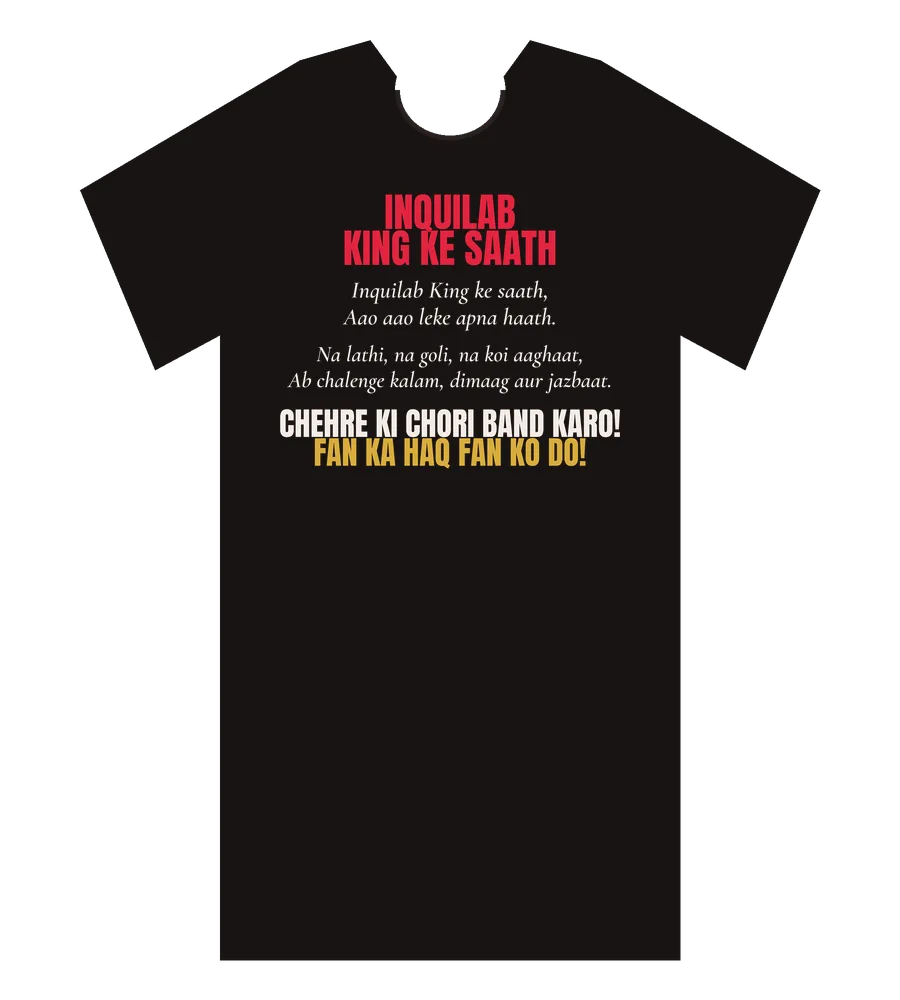
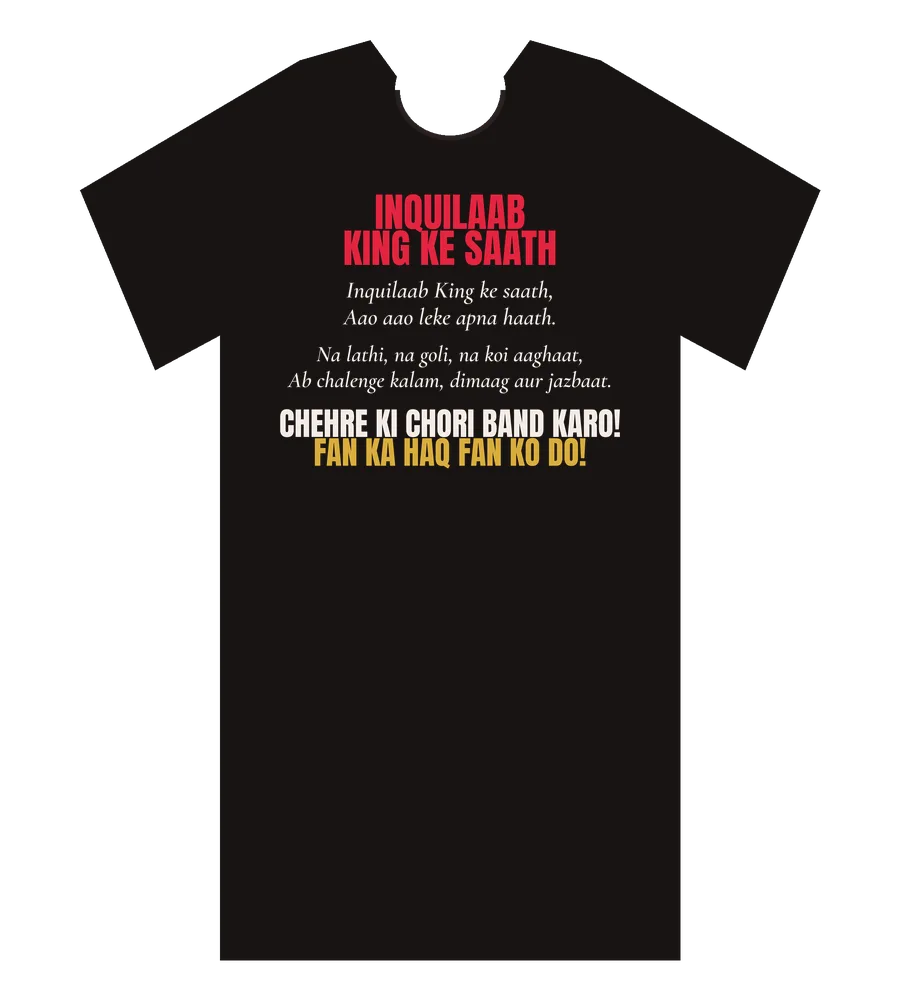
Rename the movement to INQUILAAB and the hashtag to #FreeMyFace across the site; re-render the three poem shirts
Claude-Session: https://claude.ai/code/session_01HggGaktCUHzzGKLAojHTWn

Changed region(s): [[0.4044, 0.186, 0.5911, 0.248], [0.3733, 0.279, 0.6222, 0.31]]

diff --git a/inquilab/index.html b/inquilab/index.html
@@ -3,12 +3,12 @@
 <head>
 <meta charset="utf-8">
 <meta name="viewport" content="width=device-width,initial-scale=1">
-<title>INQUILAB — The Fan Revolt Against Face Theft · #FreeTheFace</title>
-<meta name="description" content="INQUILAB: the fan revolt against face theft. Millions of fans are making Shah Rukh Khan with AI. No consent rules, no credit, no share. Inquilab King ke saath? #FreeTheFace">
+<title>INQUILAAB — The Fan Revolt Against Face Theft · #FreeMyFace</title>
+<meta name="description" content="INQUILAAB: the fan revolt against face theft. Millions of fans are making Shah Rukh Khan with AI. No consent rules, no credit, no share. Inquilaab King ke saath? #FreeMyFace">
 <meta name="theme-color" content="#0a0707">
 <link rel="canonical" href="https://agarmainkinghota.com/inquilab/">
-<meta property="og:title" content="INQUILAB — The Fan Revolt Against Face Theft">
-<meta property="og:description" content="Inquilab King ke saath? Aao aao leke apna haath. #FreeTheFace">
+<meta property="og:title" content="INQUILAAB — The Fan Revolt Against Face Theft">
+<meta property="og:description" content="Inquilaab King ke saath? Aao aao leke apna haath. #FreeMyFace">
 <meta property="og:image" content="https://agarmainkinghota.com/assets/lairs/cover.webp">
 <meta name="twitter:card" content="summary_large_image">
 <link rel="icon" type="image/png" href="../assets/home/favicon-64.png">
@@ -89,16 +89,16 @@
 <section class="iq-hero" aria-labelledby="h1">
   <div class="copy">
     <p class="eyebrow">08 · The fan revolt</p>
-    <h1 id="h1">INQUILAB</h1>
+    <h1 id="h1">INQUILAAB</h1>
     <p class="sub">The fan revolt against face theft</p>
-    <p class="couplet">Inquilab King ke saath?<br>Aao aao leke apna haath.</p>
-    <span class="tag">#FreeTheFace</span>
+    <p class="couplet">Inquilaab King ke saath?<br>Aao aao leke apna haath.</p>
+    <span class="tag">#FreeMyFace</span>
   </div>
   <div class="art"><img src="../assets/lairs/cover.webp" alt="A silhouetted King holding the King of Hearts over a red city" width="800" height="1200"></div>
 </section>
 
 <div class="ctr" aria-live="polite">
-  <div><small>Fans in the Inquilab</small><b id="c-joined">N/A</b><span>said "Haan!" on this page</span></div>
+  <div><small>Fans in the Inquilaab</small><b id="c-joined">N/A</b><span>said "Haan!" on this page</span></div>
   <div><small>Fan AI works of him</small><b id="c-works">N/A</b><span>found and linked by our daily scan</span></div>
   <div><small>Views on those works</small><b id="c-views">N/A</b><span id="c-viewsnote">where platforms publish views</span></div>
   <div><small>New this week</small><b id="c-week">N/A</b><span id="c-last">last scan N/A</span></div>
@@ -125,8 +125,8 @@
   <h2 id="p-h" class="sr" style="position:absolute;width:1px;height:1px;overflow:hidden;clip:rect(0 0 0 0)">The anthem</h2>
   <!-- POEM: replace the stanzas below with the final version -->
   <div class="poem" id="poem">
-    <h3>INQUILAB KING KE SAATH</h3>
-    <p class="st">Inquilab King ke saath,<br>Aao aao leke apna haath.</p>
+    <h3>INQUILAAB KING KE SAATH</h3>
+    <p class="st">Inquilaab King ke saath,<br>Aao aao leke apna haath.</p>
     <p class="st">Chehra Shah ka, kala humari,<br>AI se karli dacoiti saari.</p>
     <p class="st">Machine ne taan ke ki seena-zori,<br>Silicon Valley ki pakdi gayi chori.</p>
     <p class="st">Na niyam banaya, na haq samjhaya,<br>Humari kala ko apna bataya.</p>
@@ -142,8 +142,8 @@
     <div class="call">Kiska chehra?</div><div class="resp">King ka chehra!</div>
     <div class="call">Kiski kala?</div><div class="resp">Fans ki kala!</div>
     <div class="call">Kiska haq?</div><div class="resp">Hum sab ka haq!</div>
-    <div class="call">Inquilab?</div><div class="resp">King ke saath!</div>
-    <div class="call">Inquilab King ke saath,</div><div class="resp">Aao aao leke apna haath!</div>
+    <div class="call">Inquilaab?</div><div class="resp">King ke saath!</div>
+    <div class="call">Inquilaab King ke saath,</div><div class="resp">Aao aao leke apna haath!</div>
   </div>
   <div class="chant-ctl"><button class="btn btn-line" id="chantBtn" type="button">▶ Start the chant</button></div>
 </section>
@@ -152,12 +152,12 @@
   <p class="k">04 · Sign on</p>
   <div class="join">
     <div>
-      <h2 id="j-h" class="q">Inquilab King ke saath?</h2>
-      <div class="num"><span id="j-num">N/A</span><small>fans have joined the Inquilab</small></div>
-      <div class="row"><button class="btn btn-red" id="haan" type="button">Haan! Inquilab King ke saath</button><button class="btn btn-line" id="shareCard" type="button">Share my card</button></div>
+      <h2 id="j-h" class="q">Inquilaab King ke saath?</h2>
+      <div class="num"><span id="j-num">N/A</span><small>fans have joined the Inquilaab</small></div>
+      <div class="row"><button class="btn btn-red" id="haan" type="button">Haan! Inquilaab King ke saath</button><button class="btn btn-line" id="shareCard" type="button">Share my card</button></div>
       <p class="msg" id="j-msg" role="status"></p>
     </div>
-    <canvas id="card" width="1080" height="1350" aria-label="Your Inquilab card"></canvas>
+    <canvas id="card" width="1080" height="1350" aria-label="Your Inquilaab card"></canvas>
   </div>
 </section>
 
@@ -188,7 +188,7 @@
   <div class="recent" id="recent"></div>
 </section>
 
-<p class="fine">INQUILAB is a fan movement and a petition, not a lawsuit, and it does not speak for Shah Rukh Khan or any studio. It calls for a fair framework, not for anyone to stop creating. The fans' charge of "face theft" is their framing of how AI tools use a star's likeness without consent; no specific company is accused of breaking the law. Fan works are linked to their creators' own posts and never re-hosted. #FreeTheFace</p>
+<p class="fine">INQUILAAB is a fan movement and a petition, not a lawsuit, and it does not speak for Shah Rukh Khan or any studio. It calls for a fair framework, not for anyone to stop creating. The fans' charge of "face theft" is their framing of how AI tools use a star's likeness without consent; no specific company is accused of breaking the law. Fan works are linked to their creators' own posts and never re-hosted. #FreeMyFace</p>
 </main>
 
 <script src="../assets/starks.js"></script>
@@ -200,7 +200,7 @@
   var esc = function (t) { return String(t == null ? '' : t).replace(/[&<>"]/g, function (c) { return { '&': '&amp;', '<': '&lt;', '>': '&gt;', '"': '&quot;' }[c]; }); };
   var KEY = 'amkh-inquilab', joined = false; try { joined = localStorage.getItem(KEY) === '1'; } catch (e) {}
   function setJoined(n) { $('j-num').textContent = fmt(n); $('c-joined').textContent = fmt(n); }
-  function btn() { $('haan').textContent = joined ? 'You are in the Inquilab ✓' : 'Haan! Inquilab King ke saath'; }
+  function btn() { $('haan').textContent = joined ? 'You are in the Inquilaab ✓' : 'Haan! Inquilaab King ke saath'; }
   fetch(API, { cache: 'no-store' }).then(function (r) { return r.json(); }).then(function (j) { setJoined(j.joined); }).catch(function () {});
   fetch('../data/ai-creator-log.json', { cache: 'no-store' }).then(function (r) { return r.json(); }).then(function (d) {
     var views = 0, wv = 0; d.items.forEach(function (i) { if (i.views != null) { views += i.views; wv++; } });
@@ -230,27 +230,27 @@
     var c = $('card'), x = c.getContext('2d'), W = 1080, H = 1350;
     var g = x.createRadialGradient(W / 2, 380, 60, W / 2, 600, 1000); g.addColorStop(0, '#5a0a0e'); g.addColorStop(.6, '#160606'); g.addColorStop(1, '#070404');
     x.fillStyle = g; x.fillRect(0, 0, W, H); x.textAlign = 'center';
-    x.fillStyle = '#e3242b'; var fs = 250; do { x.font = fs + 'px Anton, Impact, sans-serif'; fs -= 6; } while (x.measureText('INQUILAB').width > 980 && fs > 80); x.fillText('INQUILAB', W / 2, 360);
+    x.fillStyle = '#e3242b'; var fs = 250; do { x.font = fs + 'px Anton, Impact, sans-serif'; fs -= 6; } while (x.measureText('INQUILAAB').width > 980 && fs > 80); x.fillText('INQUILAAB', W / 2, 360);
     x.fillStyle = '#fff'; x.font = '96px Anton, Impact, sans-serif'; x.fillText('KING KE SAATH', W / 2, 500);
     x.fillStyle = '#f4efe9'; x.font = 'italic 54px "Cormorant Garamond", Georgia, serif'; x.fillText('Aao aao leke apna haath.', W / 2, 620);
     x.strokeStyle = '#c3121a'; x.lineWidth = 4; x.beginPath(); x.moveTo(240, 700); x.lineTo(840, 700); x.stroke();
     x.fillStyle = '#d8cfc8'; x.font = '600 44px Archivo, Arial, sans-serif'; x.fillText(joined ? "I'VE JOINED THE FAN REVOLT" : 'THE FAN REVOLT', W / 2, 800); x.fillText('AGAINST FACE THEFT', W / 2, 860);
-    x.fillStyle = '#c3121a'; x.fillRect(W / 2 - 290, 950, 580, 110); x.fillStyle = '#fff'; x.font = '64px Anton, Impact, sans-serif'; x.fillText('#FREETHEFACE', W / 2, 1030);
-    x.fillStyle = '#ff4a4f'; x.font = '50px Anton, Impact, sans-serif'; x.fillText('AGARMAINKINGHOTA.COM/INQUILAB', W / 2, 1240);
+    x.fillStyle = '#c3121a'; x.fillRect(W / 2 - 290, 950, 580, 110); x.fillStyle = '#fff'; x.font = '64px Anton, Impact, sans-serif'; x.fillText('#FREEMYFACE', W / 2, 1030);
+    x.fillStyle = '#ff4a4f'; x.font = '50px Anton, Impact, sans-serif'; x.fillText('AGARMAINKINGHOTA.COM/INQUILAAB', W / 2, 1240);
   }
   $('haan').onclick = function () {
     if (joined) { $('j-msg').textContent = 'You are already in. Share your card and bring your friends.'; return; }
     joined = true; try { localStorage.setItem(KEY, '1'); } catch (e) {} btn(); card();
     fetch(API, { method: 'POST', headers: { 'Content-Type': 'application/json' }, body: JSON.stringify({ device: window.STARKS ? STARKS.get().device : '' }) })
-      .then(function (r) { return r.json(); }).then(function (j) { if (j.joined != null) setJoined(j.joined); $('j-msg').textContent = 'Welcome to the Inquilab. Now share your card. #FreeTheFace'; }).catch(function () { $('j-msg').textContent = 'Saved on this device; the live count will catch up.'; });
-    if (window.STARKS) STARKS.earn('inquilab', 50, 'Joined the Inquilab · #FreeTheFace', 'inquilab');
+      .then(function (r) { return r.json(); }).then(function (j) { if (j.joined != null) setJoined(j.joined); $('j-msg').textContent = 'Welcome to the Inquilaab. Now share your card. #FreeMyFace'; }).catch(function () { $('j-msg').textContent = 'Saved on this device; the live count will catch up.'; });
+    if (window.STARKS) STARKS.earn('inquilab', 50, 'Joined the Inquilaab · #FreeMyFace', 'inquilab');
   };
   $('shareCard').onclick = function () {
     card();
     $('card').toBlob(function (blob) {
-      var file = new File([blob], 'inquilab-free-the-face.jpg', { type: 'image/jpeg' }), text = 'Inquilab King ke saath! Aao aao leke apna haath. Join the fan revolt against face theft: https://agarmainkinghota.com/inquilab/ #FreeTheFace #Inquilab #KING';
-      if (navigator.canShare && navigator.canShare({ files: [file] })) navigator.share({ files: [file], text: text }).then(function () { if (window.STARKS) STARKS.earn('share', 50, 'Shared the Inquilab card'); }).catch(function () {});
-      else { var a = document.createElement('a'); a.href = URL.createObjectURL(blob); a.download = file.name; a.click(); $('j-msg').textContent = 'Card downloaded. Post it with #FreeTheFace.'; }
+      var file = new File([blob], 'inquilab-free-the-face.jpg', { type: 'image/jpeg' }), text = 'Inquilaab King ke saath! Aao aao leke apna haath. Join the fan revolt against face theft: https://agarmainkinghota.com/inquilab/ #FreeMyFace #Inquilaab #KING';
+      if (navigator.canShare && navigator.canShare({ files: [file] })) navigator.share({ files: [file], text: text }).then(function () { if (window.STARKS) STARKS.earn('share', 50, 'Shared the Inquilaab card'); }).catch(function () {});
+      else { var a = document.createElement('a'); a.href = URL.createObjectURL(blob); a.download = file.name; a.click(); $('j-msg').textContent = 'Card downloaded. Post it with #FreeMyFace.'; }
     }, 'image/jpeg', 0.92);
   };
   btn(); card(); (document.fonts ? document.fonts.ready : Promise.resolve()).then(card);

diff --git a/asoka-to-booda/index.html b/asoka-to-booda/index.html
@@ -351,8 +351,8 @@ table.t{width:100%;border-collapse:collapse;margin:10px 0 26px;font-size:15px}
   <h3 class="sub3">A new oil, and nobody holds the licence</h3>
   <p>When oil was found, the car followed, then the road, the mechanic, the driver and the whole economy around them. A star's face is the oil of the AI era. Today fans drill it without a licence, AI companies refine it without paying for it, and the people who own it have not yet built a pipeline. The opportunity is an official reserve: the star's likeness, voice and worlds, opened to storytellers on fair terms. The star earns from the fans' creativity instead of fighting it, and fans create without fear. <span class="label">Interpretation</span></p>
 
-  <h3 class="sub3">INQUILAB: the fan revolt against face theft</h3>
-  <p>The fans have a word for the way AI tools use a famous face without consent: face theft. Their answer is INQUILAB, a movement and a petition under the hashtag #FreeTheFace, with a chant instead of a lawyer: <em>"Inquilab King ke saath, aao aao leke apna haath."</em> It asks for an AI law for fans in five words: consent, share, labels, limits, credit. It is not a lawsuit, and it does not speak for the star or any studio. <span class="label">Interpretation</span></p>
+  <h3 class="sub3">INQUILAAB: the fan revolt against face theft</h3>
+  <p>The fans have a word for the way AI tools use a famous face without consent: face theft. Their answer is INQUILAAB, a movement and a petition under the hashtag #FreeMyFace, with a chant instead of a lawyer: <em>"Inquilaab King ke saath, aao aao leke apna haath."</em> It asks for an AI law for fans in five words: consent, share, labels, limits, credit. It is not a lawsuit, and it does not speak for the star or any studio. <span class="label">Interpretation</span></p>
 
   <h3 class="sub3">A working model: Lairs Cinema</h3>
   <p>This platform tests the alternative in miniature. King's Lairs, the story game, publishes its set designs: a glass dome on a frozen lake, a casino carved under a prison, a dance pit, an aquarium den. Fans animate them on their own AI accounts, star in them with their own faces, post the result and are credited and rewarded for it. The world is licensed and no face is stolen. If it works for a fan site, it can work for a studio. <span class="label">Interpretation</span></p>
@@ -361,7 +361,7 @@ table.t{width:100%;border-collapse:collapse;margin:10px 0 26px;font-size:15px}
     <p>Who owns a face when a million fans can render it?</p>
     <p>Will the first AI law for fans be written in a courtroom, or in a comment section?</p>
   </div>
-  <p><a href="../inquilab/">Read the INQUILAB manifesto →</a> · <a href="../lairs/#cinema">Make a scene in Lairs Cinema →</a></p>
+  <p><a href="../inquilab/">Read the INQUILAAB manifesto →</a> · <a href="../lairs/#cinema">Make a scene in Lairs Cinema →</a></p>
 </section>
 
 <section class="act" id="act9">
@@ -411,7 +411,7 @@ table.t{width:100%;border-collapse:collapse;margin:10px 0 26px;font-size:15px}
 
 <section class="sources">
   <p class="eyebrow" style="margin-bottom:8px">Sources</p>
-  <p>Box office 2013, 2014 and Fan (2016): <a href="https://sacnilk.com/movieboxofficecomparison/Happy_New_Year_2014_vs_Chennai_Express_2013_Box_Office_Collection">Sacnilk (Chennai Express vs Happy New Year)</a>, <a href="https://sacnilk.com/movie/Fan_2016">Sacnilk (Fan)</a> · Box office 2015–2018: <a href="https://filmibeat.com/bollywood/box-office/2023/ahead-of-jawan-release-look-at-box-office-collection-of-shah-rukh-khan-last-5-films-pathaan-gen-363513.html">Filmibeat</a> · Pathaan and Dunki: <a href="https://www.sentinelassam.com/more-news/entertainment/bollywood/shah-rukh-khan-creates-history-with-pathaan-jawan-dunki-685811">The Sentinel</a> · Jawan: <a href="https://english.madhyamam.com/entertainment/srks-jawan-earns-rs-1138-crore-continues-box-office-success-in-sixth-week-1215573">Madhyamam</a> · October 2021 timeline: <a href="https://www.freepressjournal.in/amp/mumbai/one-year-since-cordelia-cruise-drug-bust-case-when-aryan-khan-spent-over-25-days-behind-bars-timeline-of-the-case">Free Press Journal</a> · National Award: <a href="https://filmibeat.com/bollywood/news/2025/national-film-awards-2025-shah-rukh-khan-wins-his-national-award-for-best-actor-jawan-in-33-years-472487.html">Filmibeat</a> · Hurun: <a href="https://www.outlookbusiness.com/amp/story/news/shah-rukh-khans-red-chillies-propels-him-into-billionaires-club-check-his-net-worth">Outlook Business</a> · Met Gala: <a href="https://www.thenationalnews.com/lifestyle/2025/05/06/met-gala-shah-rukh-ambani-poonawalla/">The National</a> · KING and the December slate: <a href="https://www.hollywoodreporterindia.com/features/insight/shah-rukh-khans-king-locks-december-24-release-set-to-arrive-a-week-after-avengers-doomsday-and-dune-part-three">The Hollywood Reporter India</a> · KING attention figures: this campaign's <a href="../king-intelligence/">KING Intelligence</a> tracker · Fan-made AI works: this campaign's <a href="../fan-made-ai-universe/#daily-discovery">daily AI creator log</a> (each entry links to the creator's own post) · INQUILAB: <a href="../inquilab/">the fans' manifesto</a>.</p>
+  <p>Box office 2013, 2014 and Fan (2016): <a href="https://sacnilk.com/movieboxofficecomparison/Happy_New_Year_2014_vs_Chennai_Express_2013_Box_Office_Collection">Sacnilk (Chennai Express vs Happy New Year)</a>, <a href="https://sacnilk.com/movie/Fan_2016">Sacnilk (Fan)</a> · Box office 2015–2018: <a href="https://filmibeat.com/bollywood/box-office/2023/ahead-of-jawan-release-look-at-box-office-collection-of-shah-rukh-khan-last-5-films-pathaan-gen-363513.html">Filmibeat</a> · Pathaan and Dunki: <a href="https://www.sentinelassam.com/more-news/entertainment/bollywood/shah-rukh-khan-creates-history-with-pathaan-jawan-dunki-685811">The Sentinel</a> · Jawan: <a href="https://english.madhyamam.com/entertainment/srks-jawan-earns-rs-1138-crore-continues-box-office-success-in-sixth-week-1215573">Madhyamam</a> · October 2021 timeline: <a href="https://www.freepressjournal.in/amp/mumbai/one-year-since-cordelia-cruise-drug-bust-case-when-aryan-khan-spent-over-25-days-behind-bars-timeline-of-the-case">Free Press Journal</a> · National Award: <a href="https://filmibeat.com/bollywood/news/2025/national-film-awards-2025-shah-rukh-khan-wins-his-national-award-for-best-actor-jawan-in-33-years-472487.html">Filmibeat</a> · Hurun: <a href="https://www.outlookbusiness.com/amp/story/news/shah-rukh-khans-red-chillies-propels-him-into-billionaires-club-check-his-net-worth">Outlook Business</a> · Met Gala: <a href="https://www.thenationalnews.com/lifestyle/2025/05/06/met-gala-shah-rukh-ambani-poonawalla/">The National</a> · KING and the December slate: <a href="https://www.hollywoodreporterindia.com/features/insight/shah-rukh-khans-king-locks-december-24-release-set-to-arrive-a-week-after-avengers-doomsday-and-dune-part-three">The Hollywood Reporter India</a> · KING attention figures: this campaign's <a href="../king-intelligence/">KING Intelligence</a> tracker · Fan-made AI works: this campaign's <a href="../fan-made-ai-universe/#daily-discovery">daily AI creator log</a> (each entry links to the creator's own post) · INQUILAAB: <a href="../inquilab/">the fans' manifesto</a>.</p>
 </section>
 
 </article>

diff --git a/merch/index.html b/merch/index.html
@@ -4,7 +4,7 @@
 <meta charset="utf-8">
 <meta name="viewport" content="width=device-width,initial-scale=1">
 <title>Merch — Agar Main King Hota</title>
-<meta name="description" content="King Fan Merch by Shah Rock Jaan: fan-made KING shirts with the ijOO King, the Inquilab poem and the fans' slogans.">
+<meta name="description" content="King Fan Merch by Shah Rock Jaan: fan-made KING shirts with the ijOO King, the Inquilaab poem and the fans' slogans.">
 <meta name="theme-color" content="#0a0707">
 <link rel="canonical" href="https://agarmainkinghota.com/merch/">
 <link rel="icon" type="image/png" href="../assets/home/favicon-64.png">
@@ -38,11 +38,11 @@
 <script src="../assets/header.js"></script>
 <main class="wrap">
   <div class="page-head"><div><p class="eyebrow">Shah Rock Jaan</p><h1>King Fan <em>Merch</em></h1></div><p>Wear the campaign. Made by fans, printed when you order, shipped to your door.</p></div>
-  <p class="lead">Shirts and hoodies from the King by Fans campaign: the ijOO King, the Inquilab poem and the lines fans shout on release day. Every design is an original by Shah Rock Jaan.</p>
+  <p class="lead">Shirts and hoodies from the King by Fans campaign: the ijOO King, the Inquilaab poem and the lines fans shout on release day. Every design is an original by Shah Rock Jaan.</p>
   <div class="chips" id="chips" role="group" aria-label="Filter designs">
     <button type="button" data-f="all" aria-pressed="true">All</button>
     <button type="button" data-f="ijoo" aria-pressed="false">ijOO King</button>
-    <button type="button" data-f="inquilab" aria-pressed="false">Inquilab</button>
+    <button type="button" data-f="inquilab" aria-pressed="false">Inquilaab</button>
     <button type="button" data-f="lines" aria-pressed="false">Fan lines</button>
   </div>
   <section class="shop" id="shop" aria-label="Designs"></section>
@@ -55,21 +55,21 @@
   var D = [
     ['one-before-zero','ijoo','One Before Zero','Phata poster nikla hero. Zero, the King and the kid with the card.',{}],
     ['picture-abhi-baaki-hai','ijoo','Picture Abhi Baaki Hai','King akela kaafi hai.',{}],
-    ['inquilab-poem-statue','inquilab','Inquilab: The Poem','The whole anthem with the ijOO King statue.',{}],
+    ['inquilab-poem-statue','inquilab','Inquilaab: The Poem','The whole anthem with the ijOO King statue.',{}],
     ['yoga-hour-se-hero','ijoo','Yoga Hour Se Hero Banoon','The little King in tree pose.',{}],
     ['jahan-se-guzrun','ijoo','Jahan Se Guzrun Barkat Doon','Crown, cards, trumpet and the 555 bags.',{}],
     ['ijoo-king-by-fans','ijoo','King by Fans','The little King and the date: 24 · 12 · 2026.',{}],
     ['ijoo-agar-main-king-hota','ijoo','Agar Main King Hota','The little King and the question every fan asks.',{}],
     ['ijoo-king-ka-chehra','inquilab','King Ka Chehra','Kiska chehra? King ka chehra!',{}],
     ['dream-king-size','lines','Dream King Size','Agar main King hota…',{}],
-    ['inquilab-king-ke-saath','inquilab','Inquilab King Ke Saath','Aao aao leke apna haath.',{}],
+    ['inquilab-king-ke-saath','inquilab','Inquilaab King Ke Saath','Aao aao leke apna haath.',{}],
     ['agar-main-king-hota','lines','Agar Main King Hota · Crown','White and gold under the red crown.',{}],
     ['kiska-chehra-chant','inquilab','The Chant','Kiska chehra? Kiski kala? Kiska haq?',{}],
-    ['inquilab-poem','inquilab','Inquilab · Verse','Two verses and the battle cry.',{}],
+    ['inquilab-poem','inquilab','Inquilaab · Verse','Two verses and the battle cry.',{}],
     ['chehre-ki-chori','inquilab','Chehre Ki Chori Band Karo','The placard. A peaceful revolt.',{}],
     ['king-by-fans','lines','King by Fans · 24.12.2026','For release day and the countdown.',{}]
   ];
-  var TAG = {ijoo:'ijOO King', inquilab:'Inquilab', lines:'Fan lines'};
+  var TAG = {ijoo:'ijOO King', inquilab:'Inquilaab', lines:'Fan lines'};
   function esc(s){return String(s).replace(/[&<>"]/g,function(c){return {'&':'&amp;','<':'&lt;','>':'&gt;','"':'&quot;'}[c];});}
   function card(d){
     var buy = STORES.map(function(s){

diff --git a/agarmainkinghota.html b/agarmainkinghota.html
@@ -216,13 +216,13 @@ a.dkb:hover{border-color:var(--red)}
   </div>
 
 
-  <div class="slide" role="group" aria-roledescription="slide" aria-label="8 of 8: Inquilab">
+  <div class="slide" role="group" aria-roledescription="slide" aria-label="8 of 8: Inquilaab">
     <div class="copy">
-      <p class="eyebrow">08 · Inquilab · The fan revolt</p>
-      <h2 class="big"><em>INQUILAB</em><br>King ke saath?</h2>
+      <p class="eyebrow">08 · Inquilaab · The fan revolt</p>
+      <h2 class="big"><em>INQUILAAB</em><br>King ke saath?</h2>
       <p class="tag">Aao aao leke apna haath.</p>
-      <p class="lede">The fan revolt against face theft. Millions of fans are making him with AI: no consent rules, no credit, no share. Fans are organising. #FreeTheFace</p>
-      <div class="ctas"><a class="btn btn-red" href="inquilab/">Haan! Join the Inquilab <span aria-hidden="true">→</span></a></div>
+      <p class="lede">The fan revolt against face theft. Millions of fans are making him with AI: no consent rules, no credit, no share. Fans are organising. #FreeMyFace</p>
+      <div class="ctas"><a class="btn btn-red" href="inquilab/">Haan! Join the Inquilaab <span aria-hidden="true">→</span></a></div>
     </div>
     <img class="art" src="assets/lairs/cover.webp" width="800" height="1200" alt="A silhouetted King holding the King of Hearts over a red city" loading="lazy">
   </div>
@@ -284,9 +284,9 @@ a.dkb:hover{border-color:var(--red)}
       <div class="pic"><img src="assets/home/05-fan-made-ai-universe.webp" width="663" height="1400" alt="" loading="lazy"></div>
       <div class="foot"><span class="go">Read the thesis →</span><span class="what">Thesis</span></div>
     </a>
-    <a class="iq-banner" href="inquilab/" aria-label="INQUILAB: the fan revolt against face theft">
-      <span class="iq-l"><em>08 · New</em><strong>INQUILAB</strong><span>The fan revolt against face theft</span></span>
-      <span class="iq-r"><i>Inquilab King ke saath?</i><u>Aao aao leke apna haath. #FreeTheFace →</u></span>
+    <a class="iq-banner" href="inquilab/" aria-label="INQUILAAB: the fan revolt against face theft">
+      <span class="iq-l"><em>08 · New</em><strong>INQUILAAB</strong><span>The fan revolt against face theft</span></span>
+      <span class="iq-r"><i>Inquilaab King ke saath?</i><u>Aao aao leke apna haath. #FreeMyFace →</u></span>
     </a>
 
   </div>
@@ -345,7 +345,7 @@ a.dkb:hover{border-color:var(--red)}
   });
   // six-section slider: arrows, dots, swipe, autoplay
   var slides = [].slice.call(document.querySelectorAll('#hero .slide')), dots = document.getElementById('dots'), hero = document.getElementById('hero');
-  var names = ['DOOM to KING', 'Make Your Poster', "King's Lairs", 'Chess81', 'Billboard', 'KING Buzz', 'Asoka to Boo-Da', 'Inquilab'], cur = 0, timer = null;
+  var names = ['DOOM to KING', 'Make Your Poster', "King's Lairs", 'Chess81', 'Billboard', 'KING Buzz', 'Asoka to Boo-Da', 'Inquilaab'], cur = 0, timer = null;
   slides.forEach(function (_, k) { var d = document.createElement('button'); d.type = 'button'; d.className = 'dot'; d.setAttribute('aria-label', (k + 1) + ': ' + names[k]); d.appendChild(document.createElement('i')); d.onclick = function () { show(k); stop(); }; dots.appendChild(d); });
   function show(n) {
     cur = (n + slides.length) % slides.length;

diff --git a/lairs/index.html b/lairs/index.html
@@ -222,7 +222,7 @@ canvas.den{display:block;width:100%;max-width:520px;aspect-ratio:3/4;background:
     <ol class="csteps">
       <li><b>Pick a scene</b><span>Choose a lair and a set below.</span></li>
       <li><b>Make it move</b><span>Download the scene, copy the prompt, open Kling, Gemini or Wan on your own account.</span></li>
-      <li><b>Post it</b><span>On Instagram, YouTube, X or Facebook with <b>#KingsLairs #FreeTheFace</b>.</span></li>
+      <li><b>Post it</b><span>On Instagram, YouTube, X or Facebook with <b>#KingsLairs #FreeMyFace</b>.</span></li>
       <li><b>Submit the link</b><span>+50 STARKS now. +500 when approved. Scene of the week: +2,000 and the Billboard.</span></li>
     </ol>
     <div class="ctabs" id="cTabs" role="group" aria-label="Choose a lair"></div>
@@ -234,7 +234,7 @@ canvas.den{display:block;width:100%;max-width:520px;aspect-ratio:3/4;background:
         <textarea id="cPrompt" rows="6"></textarea>
         <div class="row"><a class="btn btn-red" id="cDl" href="#" download>Download scene</a><button class="btn btn-line" id="cCopy" type="button">Copy prompt</button></div>
         <div class="ctools" id="cTools"></div>
-        <p class="cnote">Use <b>your own face</b>: add your selfie as the reference, or first paint yourself into the chapter with “Star in this scene” and animate that still. Never upload someone else's face. That is the face theft #FreeTheFace is fighting.</p>
+        <p class="cnote">Use <b>your own face</b>: add your selfie as the reference, or first paint yourself into the chapter with “Star in this scene” and animate that still. Never upload someone else's face. That is the face theft #FreeMyFace is fighting.</p>
       </div>
     </div>
     <form class="csub" id="subForm">
@@ -929,7 +929,7 @@ function cineInit() {
   $('cTools').innerHTML = TOOLS.map(function (t) { return '<a class="ctool" href="' + t[1] + '" target="_blank" rel="noopener"><b>Open ' + t[0] + ' ↗</b><small>' + t[2] + '</small></a>'; }).join('');
   $('subLair').innerHTML = LAIRS.map(function (l) { return '<option value="' + l.id + '">' + CN[l.id] + ' · ' + l.name + '</option>'; }).join('');
   $('cCopy').onclick = function () {
-    var t = $('cPrompt').value + '\n\n#KingsLairs #FreeTheFace #AgarMainKingHota';
+    var t = $('cPrompt').value + '\n\n#KingsLairs #FreeMyFace #AgarMainKingHota';
     (navigator.clipboard ? navigator.clipboard.writeText(t) : Promise.reject()).then(function () { $('cCopy').textContent = 'Copied ✓'; setTimeout(function () { $('cCopy').textContent = 'Copy prompt'; }, 1800); })
       .catch(function () { $('cPrompt').select(); document.execCommand && document.execCommand('copy'); });
   };

diff --git a/create/index.html b/create/index.html
@@ -120,7 +120,7 @@ input.text,select.text{width:100%;height:46px;padding:0 12px;background:var(--fi
       <h1>Make your <em>KING</em> poster</h1>
     </div>
     <p>Pick one of his 80 films, step into the role and get a poster nobody else has: your face, his film's world, the KING crown and your own line.</p>
-    <p class="own-face"><b>Your face. Not his.</b> The only real face on this poster is yours: no star's face goes into the AI. That's our <a href="../inquilab/">#FreeTheFace</a> pledge.</p>
+    <p class="own-face"><b>Your face. Not his.</b> The only real face on this poster is yours: no star's face goes into the AI. That's our <a href="../inquilab/">#FreeMyFace</a> pledge.</p>
   </div>
 
   <ol class="steps" id="steps" aria-label="Progress">
@@ -249,7 +249,7 @@ const POSTER_API_URL = 'https://asokatobooda.iamshahrock.workers.dev';
 const BASE = new URL('../assets/posters/', location.href).href;
 // How the original poster is shared with the image model. 'original' sends it as-is;
 // 'blur' sends a softened copy (layout and colour only). Set from the end-to-end test results.
-const FILM_REF_MODE = 'blur';   // faces on the original posters must never reach the AI (#FreeTheFace)
+const FILM_REF_MODE = 'blur';   // faces on the original posters must never reach the AI (#FreeMyFace)
 
 const state = { film: null, role: 'king', look: 'cinematic', photos: [], aiArt: null, cast: [] };
 let catalogue = [];

diff --git a/king-intelligence/index.html b/king-intelligence/index.html
@@ -927,7 +927,7 @@
       <div class="ki-tablewrap"><table class="ki-table"><caption class="ki-sr">Most-viewed fan AI works logged</caption><thead><tr><th scope="col">Most-viewed fan AI works logged</th><th scope="col">Creator</th><th scope="col">Platform</th><th scope="col" class="n">Views</th><th scope="col" class="n">Read on</th></tr></thead><tbody id="ao-top"><tr><td colspan="5">Loading…</td></tr></tbody></table></div>
     </div>
   </div>
-  <a class="ki-cc" href="../inquilab/"><span>Section 08</span><b>INQUILAB · the fan revolt against face theft · join and share #FreeTheFace</b><i aria-hidden="true">→</i></a>
+  <a class="ki-cc" href="../inquilab/"><span>Section 08</span><b>INQUILAAB · the fan revolt against face theft · join and share #FreeMyFace</b><i aria-hidden="true">→</i></a>
   <p class="ki-note">Related: the thesis calls Alam Ara (1931) the first oil strike of Indian cinema. <a class="ki-src" href="../asoka-to-booda/#act9">Read Act IX · The marketing code →</a></p>
 </section>
 

diff --git a/assets/studio/prompt.js b/assets/studio/prompt.js
@@ -2,7 +2,7 @@
 // Image order sent to the Worker: fan photo(s) first, then the film's original poster (not for KING), then the KING crown.
 // Wording note (tested 10 Oct 2026): neutral "design a new poster starring the person in the first photo" passes the
 // image model's safety review; wording about replacing or removing an actor's face was rejected.
-// #FreeTheFace (12 Oct 2026): the film poster is sent blurred, and the prompt forbids any real star's likeness.
+// #FreeMyFace (12 Oct 2026): the film poster is sent blurred, and the prompt forbids any real star's likeness.
 export const LOOKS = {
   cinematic: 'hyper-real cinematic photography, dramatic rim light, fine film grain',
   retro: 'hand-painted 1990s Bollywood billboard, bold brush strokes, saturated colour',

diff --git a/backend/worker.js b/backend/worker.js
@@ -395,7 +395,7 @@ async function aiSubmit(request, env, reply, origin) {
   return reply(200, { ok: true, duplicate: !(r.meta && r.meta.changes), platform: plat[0] });
 }
 
-// ---------------- INQUILAB: fans joining the revolt (#FreeTheFace) ----------------
+// ---------------- INQUILAAB: fans joining the revolt (#FreeMyFace) ----------------
 // GET /inquilab -> { joined }   POST /inquilab {device} -> { joined, added }
 async function inquilab(request, env, reply, origin) {
   if (!env.DB) return reply(503, { error: "Not configured yet." });

diff --git a/assets/starks.js b/assets/starks.js
@@ -22,7 +22,7 @@
     verdict: ['Finished THE CONTRACT', 2],
     pledge: ['Pledged to watch DOOM and KING', 1],
     vote: ['Voted in DOOM to KING', 6],
-    inquilab: ['Joined the Inquilab · #FreeTheFace', 1],
+    inquilab: ['Joined the Inquilaab · #FreeMyFace', 1],
     clipsubmit: ['Submitted a Lairs Cinema clip', 3],
     comment: ['Posted on a Fan Wall', 3]
   };

diff --git a/assets/header.js b/assets/header.js
@@ -23,7 +23,7 @@
     ['king-intelligence/', 'KING Buzz'],
     ['asoka-to-booda/', 'Asoka to Boo-Da'],
     ['doom-to-king/', 'DOOM to KING'],
-    ['inquilab/', 'Inquilab']
+    ['inquilab/', 'Inquilaab']
   ];
   var UTIL = [['merch/', 'Merch'], ['about/', 'About Us'], ['contact/', 'Contact'], ['faq/', 'FAQ']];
 

diff --git a/CLAUDE.md b/CLAUDE.md
@@ -7,7 +7,7 @@ This repo is PUBLIC: never write private or legal material here.
 Fan platform for Shah Rukh Khan's KING (release 24 Dec 2026), live at https://agarmainkinghota.com.
 Header sections (one line on desktop ≥1200px, burger below): Make Your Poster (/create/), King's Lairs (/lairs/),
 Chess81 (/CHESS81.HTML), Billboard (/fan-billboard/), KING Buzz (/king-intelligence/), Asoka to Boo-Da (/asoka-to-booda/),
-DOOM to KING (/doom-to-king/), Inquilab (/inquilab/). Plus About Us, Contact, FAQ, STARKS points badge.
+DOOM to KING (/doom-to-king/), Inquilaab (/inquilab/). Plus About Us, Contact, FAQ, STARKS points badge.
 
 ## Stack
 - Static site on GitHub Pages via .github/workflows/pages.yml (cache-busts shared assets with ?v=<sha8>).
@@ -28,6 +28,7 @@ Verify live before calling anything live: tools/v2-live-e2e.mjs and tools/releas
 - Fan Wall: 555-character limit, NO profanity filter (owner's explicit decision).
 - The project is not anonymous: the owner is named. About Us (/about/, 13 Oct 2026) lists the backers, two per row, with photo, role, short bio and logos: Dr. R.K. Prasla (Presenter & Sponsor; ZeeFX Studio, Innovator), Mr. Ganesh Vulidra (Creator, The Ultimate King Fan Challenge), Mr. Mohomed Morani (Patron; CMD, DOME Entertainment), Mr. Mazhar Nadiadwala (Patron; MD, DOME Entertainment), Mr. Sanjay Rodrigues (Tech Sponsor; Founder & CEO, Phenomenal AI). The 6th slot is left empty for the next backer; the owner's own section sits below a red rule. Never publish backers' phone numbers or addresses (Ganesh's CV has them).
 - Style: compact red/black, direct, evidence-led.
+- Naming (owner's decision 18 Oct 2026): the movement is spelt INQUILAAB (nod to Amitabh Bachchan's film Inquilaab) and the hashtag is #FreeMyFace (was Inquilab / #FreeTheFace). URL stays /inquilab/ and the STARKS key stays `inquilab` so old links and points keep working.
 
 ## Docs (claude.ai)
 - Thesis manuscript "SRK: The Man, The Myth, The King" (renamed 13 Oct 2026; was "The Man, The Brand, The Myth"): https://claude.ai/code/artifact/2d67e4c6-cb25-4947-827b-3feb291f1d35
@@ -35,7 +36,7 @@ Verify live before calling anything live: tools/v2-live-e2e.mjs and tools/releas
 - Press release "KING by FANS": https://claude.ai/code/artifact/a9a602c3-ffbf-474c-82a3-02575c665e32
 - Creator Kit (charter, STARKS integration, card spec; shared with the fan developer 13 Oct): https://claude.ai/code/artifact/d07b71e8-b28e-4b7e-8988-f90e9777bd45
 
-## Make Your Poster — current policy (#FreeTheFace, PR #61, chat "Set II", 12 Oct 2026)
+## Make Your Poster — current policy (#FreeMyFace, PR #61, chat "Set II", 12 Oct 2026)
 - No star's face goes into the AI: the film poster is sent BLURRED (`FILM_REF_MODE = 'blur'` in create/index.html), colour and layout only.
 - Prompt (assets/studio/prompt.js) forbids depicting or resembling any real actor, celebrity or public figure. The only real faces are the uploaded fans.
 - Every finished poster carries a visible "AI-MADE FAN POSTER" label plus XMP/JPEG-comment AI provenance (`tagJpeg()` in assets/studio/compose.js).
@@ -49,12 +50,12 @@ Verify live before calling anything live: tools/v2-live-e2e.mjs and tools/releas
 ## Open work
 - Owner runs real-photo poster tests; afterwards check D1 posters for failed/declined requests and spot-check results for celebrity faces.
 - 80 face-free "mood plates" to replace the star-face reference posters. Owner to choose: auto-made from the existing posters (show 6 first) or designed by her team. Face boxes for all 80 posters exist (face-api run, 12 Oct) and can drive automatic face removal.
-- PARKED, conflicts with #FreeTheFace: the "replace a face" remake mode (masked AI edit composited onto the untouched original poster). It would keep real stars' faces in the output. Owner to decide before any work.
-- Inquilab sub-page "The Revolution Starts Now": evidence of what visual AI changes vs our fix (examples need explicit fan consent).
+- PARKED, conflicts with #FreeMyFace: the "replace a face" remake mode (masked AI edit composited onto the untouched original poster). It would keep real stars' faces in the output. Owner to decide before any work.
+- Inquilaab sub-page "The Revolution Starts Now": evidence of what visual AI changes vs our fix (examples need explicit fan consent).
 
 ## Press release "KING by FANS" (doc linked above)
 - Headline: "RA.ONE. CHENNAI EXPRESS. KING." then "KING by FANS." / "The Digital Revolution Returns."
-- "World's first" claims are made FLAT, no "to our knowledge" (owner's decision 12 Oct: no precedent online = proof). Approved claims: "The world's first fan-built 360° film campaign" = (1) fan-built, studio-independent, (2) AI fan creation, (3) original games, (4) fan rankings (STARKS), (5) public daily intelligence dashboard (KING Buzz), (6) Inquilab. Also: KING Buzz = "world's first fan campaign to publish its film's buzz in public every day against a fixed baseline"; Inquilab = "world's first fan movement fighting FOR a star's AI rights, not just against fakes" (Taylor Swift fans 2024 and K-pop fandoms fought fakes, so 'first fans against AI fakes' is taken).
+- "World's first" claims are made FLAT, no "to our knowledge" (owner's decision 12 Oct: no precedent online = proof). Approved claims: "The world's first fan-built 360° film campaign" = (1) fan-built, studio-independent, (2) AI fan creation, (3) original games, (4) fan rankings (STARKS), (5) public daily intelligence dashboard (KING Buzz), (6) Inquilaab. Also: KING Buzz = "world's first fan campaign to publish its film's buzz in public every day against a fixed baseline"; Inquilaab = "world's first fan movement fighting FOR a star's AI rights, not just against fakes" (Taylor Swift fans 2024 and K-pop fandoms fought fakes, so 'first fans against AI fakes' is taken).
 - Never claim "world's first AI fan campaign" or "first fan campaign" alone: Barbie (2023), Spider-Verse (2023), Cadbury/SRK (2021), Zero's Bauua Ki Toli (2018) and her own Ra.One contests (2011) came first.
 - Avoid "built to break records" unless a named, measurable record.
 - Pending from owner: backer bios (Dr. Prasla, Mr. Mohomed Morani, Ganesh), quote approval, date, media contact, proof for Wharton/IO/Shorty awards and Singham Returns. Zee award: Jan 2012 ceremony for Ra.One (2011).
@@ -62,7 +63,7 @@ Verify live before calling anything live: tools/v2-live-e2e.mjs and tools/releas
 ## Portal direction (decided 12-13 Oct 2026)
 - The site is becoming a portal, not one site. Make Your Poster becomes a category landing page (early-2000s game-portal style): a grid of named poster games, each with its own creator credit, cover, play count and badges (NEW, HOT, KING'S PICK). Our studio gets its own game name (proposed: Kingmaker; owner to confirm).
 - A fellow fan developer is building a second poster game: "The Ultimate King Fan Challenge" (4 tasks: Know the King 81-second quiz, Make the King's 81st poster, One Minute for the King, Make Your King Famous; Top 5 prize). Owner approved; STARKS will be integrated into his game. Landing page work starts 13 Oct.
-- Shared across all creators: one fan identity + STARKS, one creator charter (#FreeTheFace, AI-made label, consent), one card format.
+- Shared across all creators: one fan identity + STARKS, one creator charter (#FreeMyFace, AI-made label, consent), one card format.
 - Review notes given on his deck: lock the Top 5 prize before launch; cap social likes (deck gives them 350/1,000); one currency (STARKS) not three; start Task 3 as a voice note; define "80 films" (our 80 posters vs 98 film credits); quiz bank can come from the thesis appendices.
 - Sponsor: Phenomenal AI (phenomenalai.in, text-to-video), owner's former client; free account for campaign videos. First test (15 s, crowned kid in "The Abyssal Den" pool hall) reviewed: fix crown continuity, duplicate pool ball, missing break payoff, empty opening, audio level. Credit line and logo pending from the owner.
 
